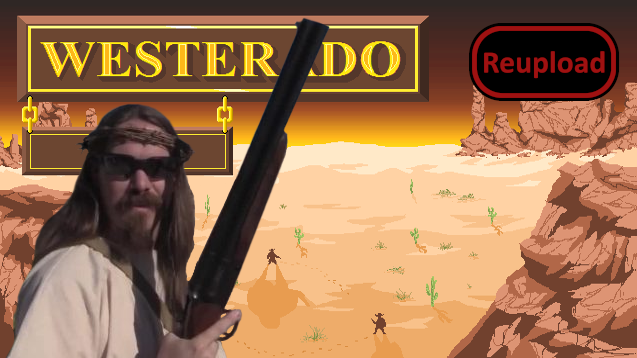
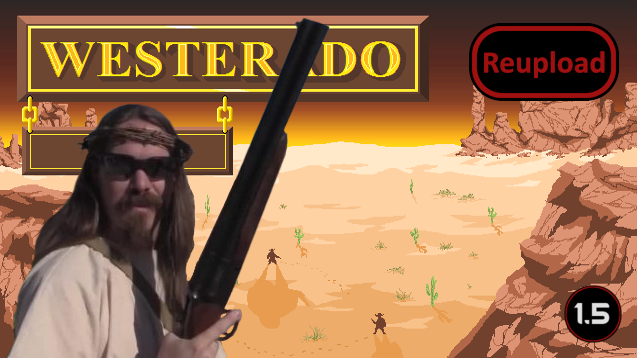
Mod updated for 1.5 and passed autotests

Changed region(s): [[0.865, 0.7989, 0.9843, 0.9832]]

diff --git a/README.md b/README.md
@@ -123,12 +123,13 @@ All original content (e.g. text, imagery, sounds) in this mod is licensed under 
 
 -  See if the the error persists if you just have this mod and its requirements active.
 -  If not, try adding your other mods until it happens again.
--  Post your error-log using https://steamcommunity.com/workshop/filedetails/?id=818773962]HugsLib and command Ctrl+F12
+-  Post your error-log using https://steamcommunity.com/workshop/filedetails/?id=818773962]HugsLib or the standalone https://steamcommunity.com/sharedfiles/filedetails/?id=2873415404]Uploader and command Ctrl+F12
 -  For best support, please use the Discord-channel for error-reporting.
 -  Do not report errors by making a discussion-thread, I get no notification of that.
 -  If you have the solution for a problem, please post it to the GitHub repository.
+-  Use https://github.com/RimSort/RimSort/releases/latest]RimSort to sort your mods
 
 
 
+https://steamcommunity.com/sharedfiles/filedetails/changelog/2236991059]![Image](https://img.shields.io/github/v/release/emipa606/WesteradoTheGunJesusRevelations?label=latest%20version&style=plastic&color=9f1111&labelColor=black)
 
-https://steamcommunity.com/sharedfiles/filedetails/changelog/2236991059]Last updated 2022-12-27
